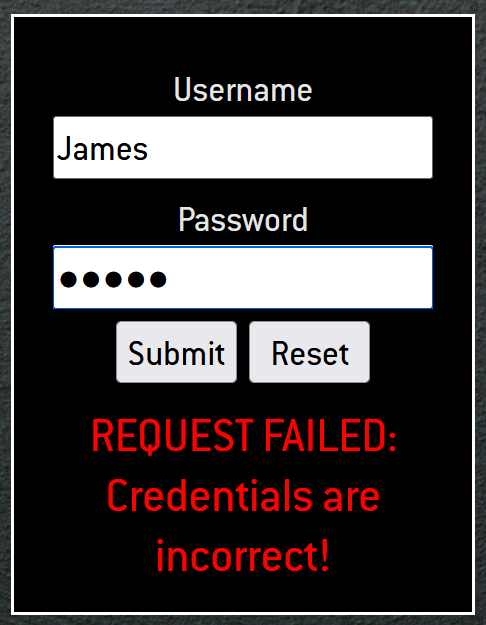
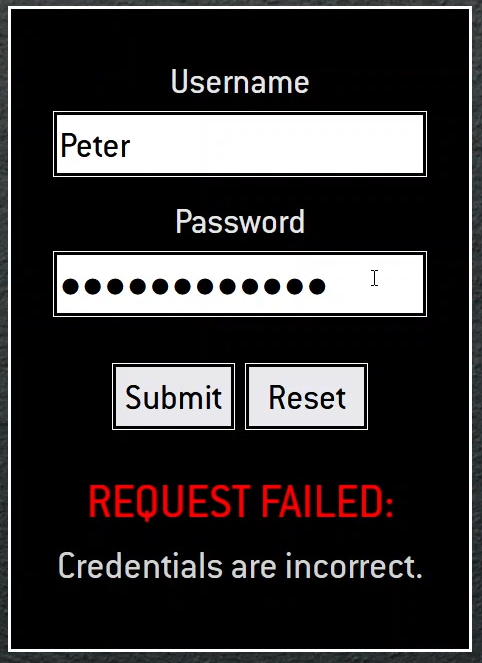
Updated TT project images

Changed region(s): [[0.0934, 0.0912, 0.9025, 0.912], [0.0, 0.0, 1.0, 1.0]]

diff --git a/index.html b/index.html
@@ -1136,8 +1136,8 @@
             machine hosting it locally. All information shown is for demo purposes.
             <br><br>
             <b>
-                Please visit the GitHub repository below for instructions
-                on cloning down the code and testing it for yourself.
+                Backend functionality can be seen in the video
+                <a href="https://www.youtube.com/watch?v=-24YH-FiC6A">here</a>!
             </b>
 
         </em>

diff --git a/css/layout/modal.css b/css/layout/modal.css
@@ -42,6 +42,12 @@
     }
 }
 
+.modal iframe {
+    display: block;
+    width: clamp(300px, 80%,960px);
+    height: auto;
+    aspect-ratio: 1920/1080;
+}
 
 .modal-img {
     width: clamp(300px, 90%, 700px);
